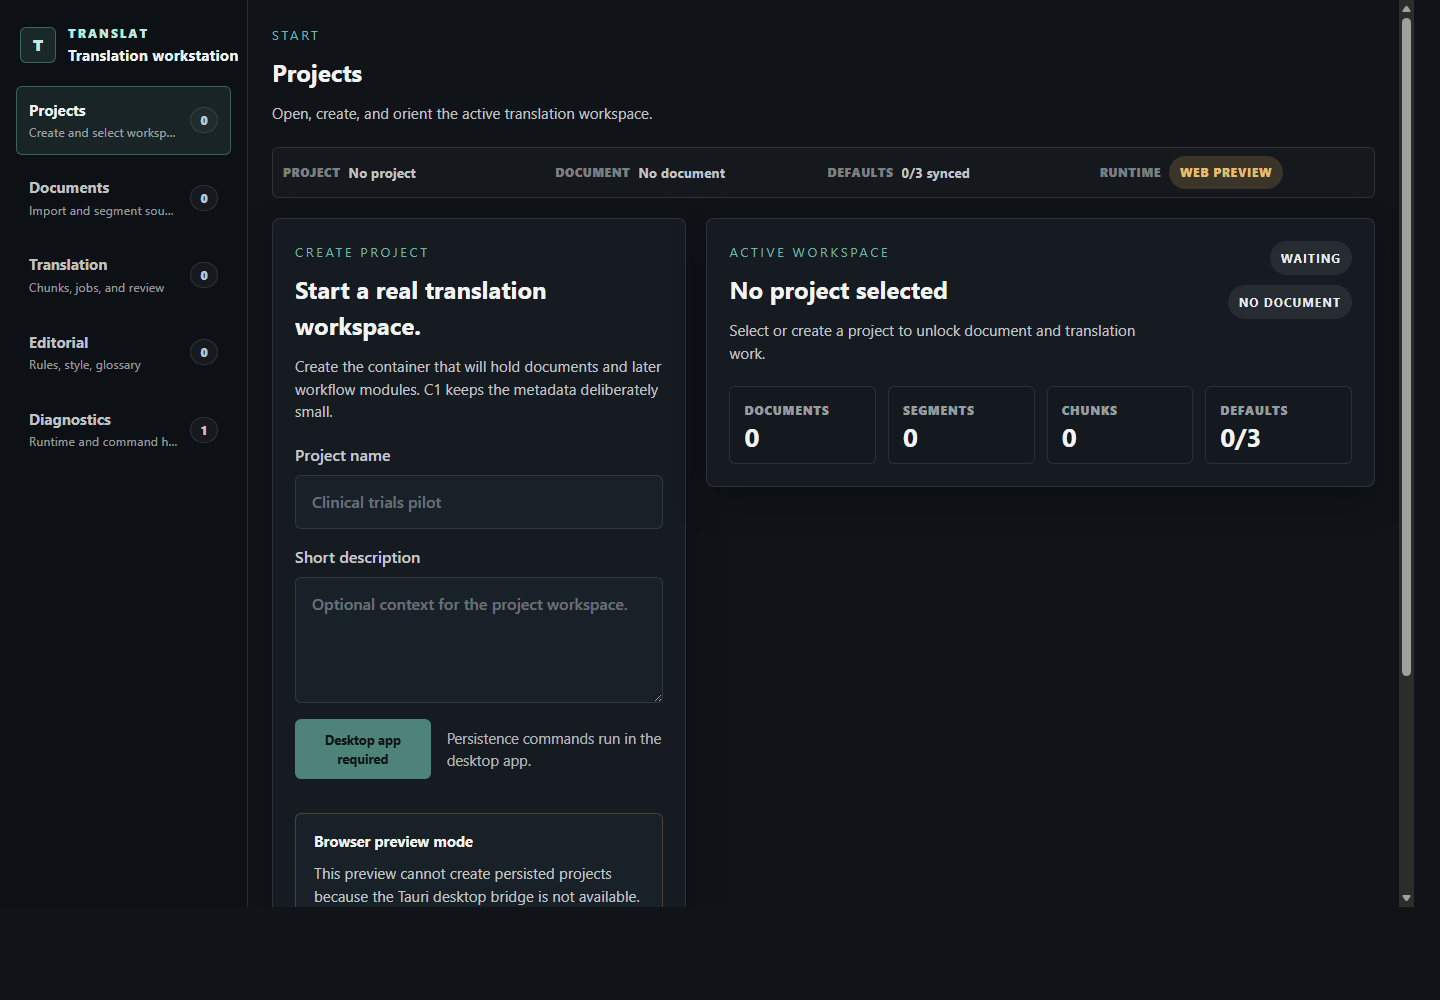
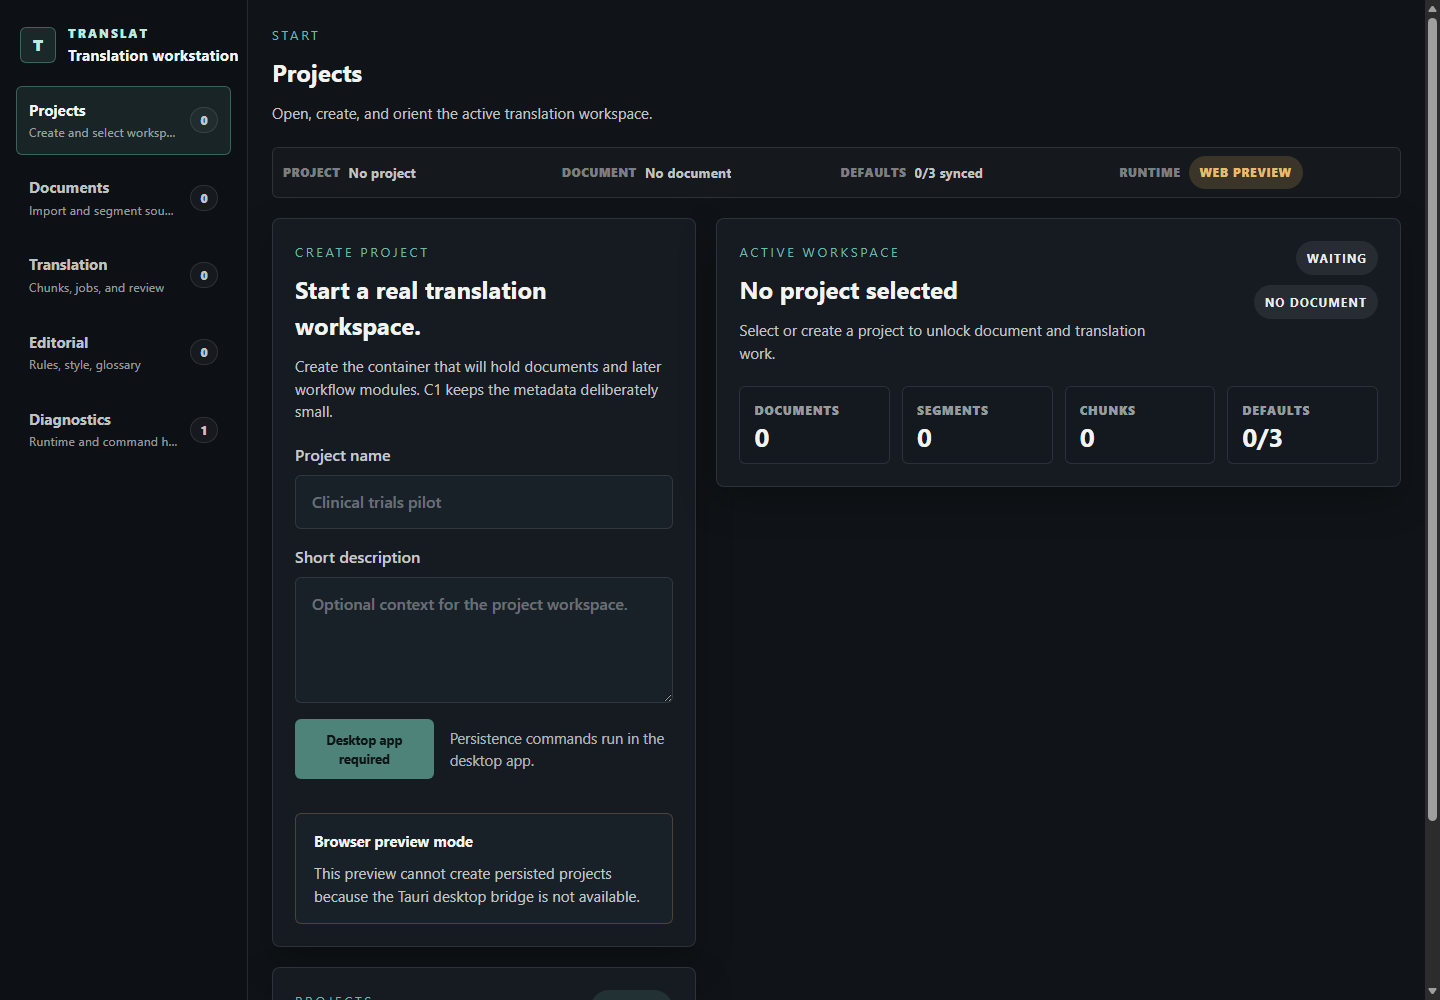
Fix tablet nav and preview submit guard

diff --git a/src/frontend/styles.css b/src/frontend/styles.css
@@ -1595,7 +1595,7 @@ select {
     flex: 0 0 auto;
     align-self: start;
     width: 100%;
-    grid-template-columns: repeat(5, minmax(0, 1fr));
+    grid-template-columns: repeat(auto-fit, minmax(160px, 1fr));
     overflow-x: auto;
   }
 
@@ -1640,6 +1640,12 @@ select {
   }
 }
 
+@media (max-width: 720px) {
+  .app-shell__nav-list {
+    grid-template-columns: 1fr;
+  }
+}
+
 @media (max-width: 640px) {
   .app-shell,
   .app-shell__nav,
@@ -1653,7 +1659,6 @@ select {
     padding: 16px 12px;
   }
 
-  .app-shell__nav-list,
   .app-shell__operational-strip,
   .app-shell__metric-grid {
     grid-template-columns: 1fr;

diff --git a/src/frontend/components/ProjectComposer.tsx b/src/frontend/components/ProjectComposer.tsx
@@ -25,6 +25,10 @@ export function ProjectComposer({
   async function handleSubmit(event: React.FormEvent<HTMLFormElement>) {
     event.preventDefault();
 
+    if (isRuntimeUnavailable) {
+      return;
+    }
+
     const wasCreated = await onSubmit({
       description,
       name,

diff --git a/docs/product/TR-34-visual-validation.md b/docs/product/TR-34-visual-validation.md
@@ -10,6 +10,7 @@ Validation date: 2026-04-21.
 ## Evidence
 - Browser runtime: `http://127.0.0.1:1420/`
 - Desktop capture: `docs/product/assets/TR-34/browser-desktop.png`
+- Wide tablet capture: `docs/product/assets/TR-34/browser-tablet-wide.png`
 - Intermediate responsive Documents capture: `docs/product/assets/TR-34/browser-tablet.png`
 - Intermediate responsive Translation capture: `docs/product/assets/TR-34/browser-tablet-translation.png`
 - Wide phone capture: `docs/product/assets/TR-34/browser-phone-wide.png`
@@ -17,6 +18,8 @@ Validation date: 2026-04-21.
 - Browser mode: Vite web preview, with Tauri command bridge unavailable.
 
 ![TR-34 browser desktop](assets/TR-34/browser-desktop.png)
+
+![TR-34 browser wide tablet](assets/TR-34/browser-tablet-wide.png)
 
 ![TR-34 browser intermediate responsive](assets/TR-34/browser-tablet.png)
 
@@ -57,6 +60,7 @@ Wide phone viewport:
 
 Intermediate responsive viewport:
 - Documents and Translation navigation use a compact horizontal row without an elastic empty area below the tabs.
+- Tablet navigation wraps with a readable minimum tab width instead of compressing all five tabs into narrow columns.
 - The view header starts immediately after the navigation boundary, preserving route orientation without duplicated chrome.
 
 ## Operational State Matrix
@@ -80,7 +84,7 @@ Intermediate responsive viewport:
 ## Accessibility And Layout Review
 - The shell uses real buttons for navigation, project actions, document rows, chunk rows, and job/QA actions.
 - Disabled operational states are explicit for non-segmented documents, missing chunks, inactive jobs, and unavailable export.
-- Browser preview disables persistence commands when the Tauri desktop bridge is unavailable and shows a clear runtime message.
+- Browser preview disables persistence commands when the Tauri desktop bridge is unavailable, guards form submit paths, and shows a clear runtime message.
 - Semantic status colors are restrained and consistent with TR-31 roles: info for progress, success for ready/completed, warning for blocked/incomplete, danger for incidents.
 - Dense workstation layout is preserved on desktop through left navigation, compact operational context, and the three-zone Translation Workspace.
 - Mobile layout stacks major regions and avoids horizontal overflow in the captured state.
